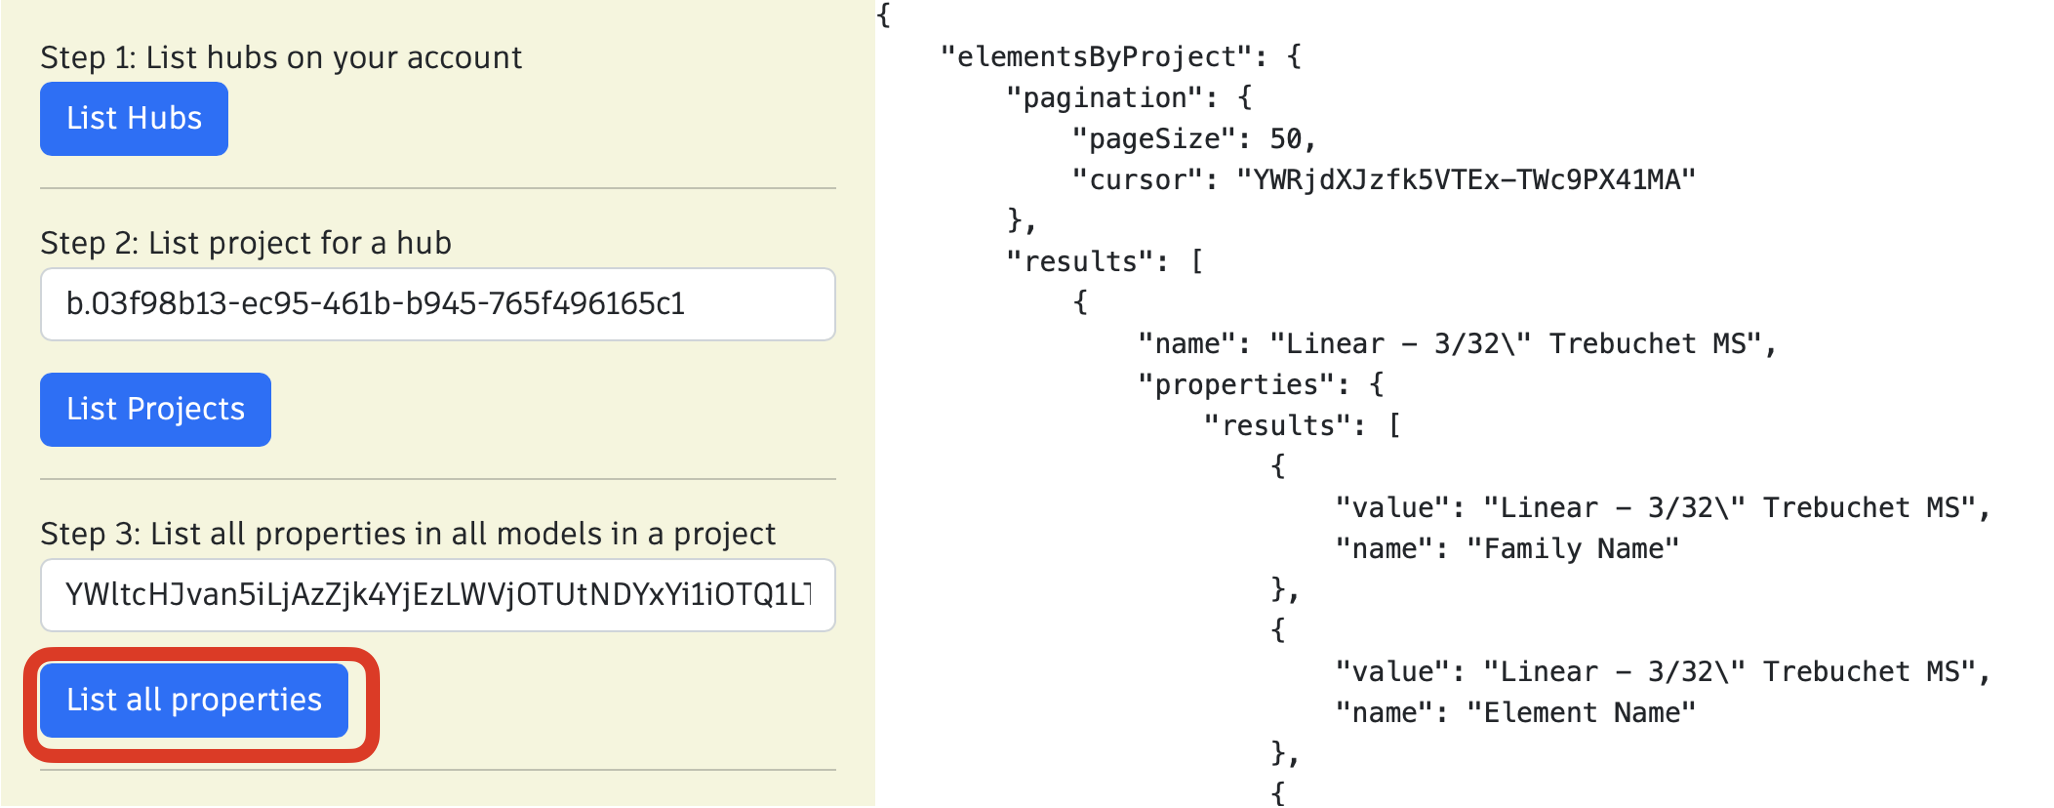
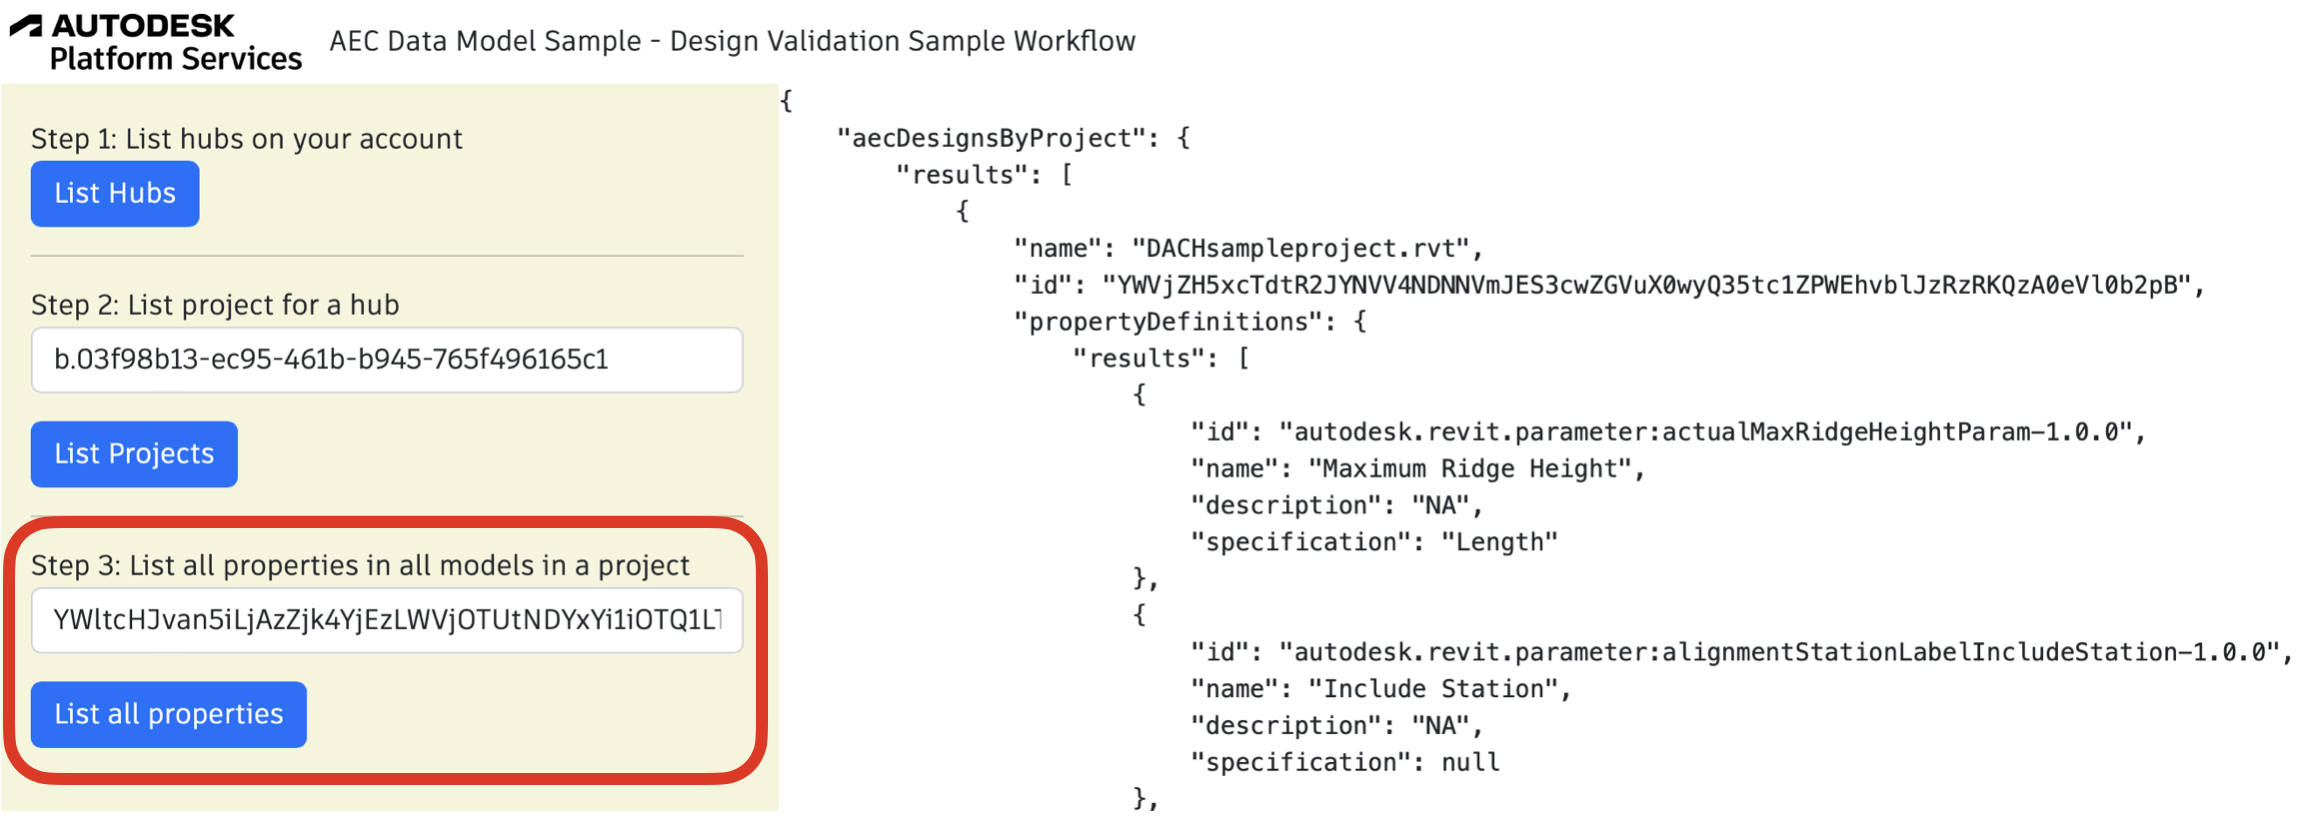
update designvalidation

Changed region(s): [[0.0, 0.0, 0.9659, 1.0], [0.4985, 0.4641, 0.9659, 0.7116], [0.4985, 0.7735, 0.9971, 0.9592]]

diff --git a/Controllers/DesignValidation.cs b/Controllers/DesignValidation.cs
@@ -11,20 +11,23 @@ public partial class AECCIMGraphQLController : ControllerBase
         {
             Query = @"
 			    query getDesignValidation($projectId: ID!) {
-  elementsByProject(projectId: $projectId) {
-    pagination{
-      pageSize
-      cursor
-    }
+            aecDesignsByProject(projectId: $projectId) {
+              pagination{
+                pageSize
+                cursor
+              }
     results{
-			name
-			properties{
+      name
+      id
+			propertyDefinitions{
 				results{
-					value
+					id
 					name
+					description
+					specification
 				}
 			}
-		}
+    }
   }
 }",
             Variables = new

diff --git a/DesignValidation.md b/DesignValidation.md
@@ -25,17 +25,20 @@ This step uses `projectId`. Click on List all properties. [See C# code](/Control
 Query used:
 
 ```
-elementsByProject(projectId: "your project id") {
+aecDesignsByProject(projectId: $projectId) {
   pagination{
     pageSize
     cursor
   }
   results{
     name
-    properties{
+    id
+    propertyDefinitions{
       results{
-        value
+        id
         name
+        description
+        specification
       }
     }
   }
